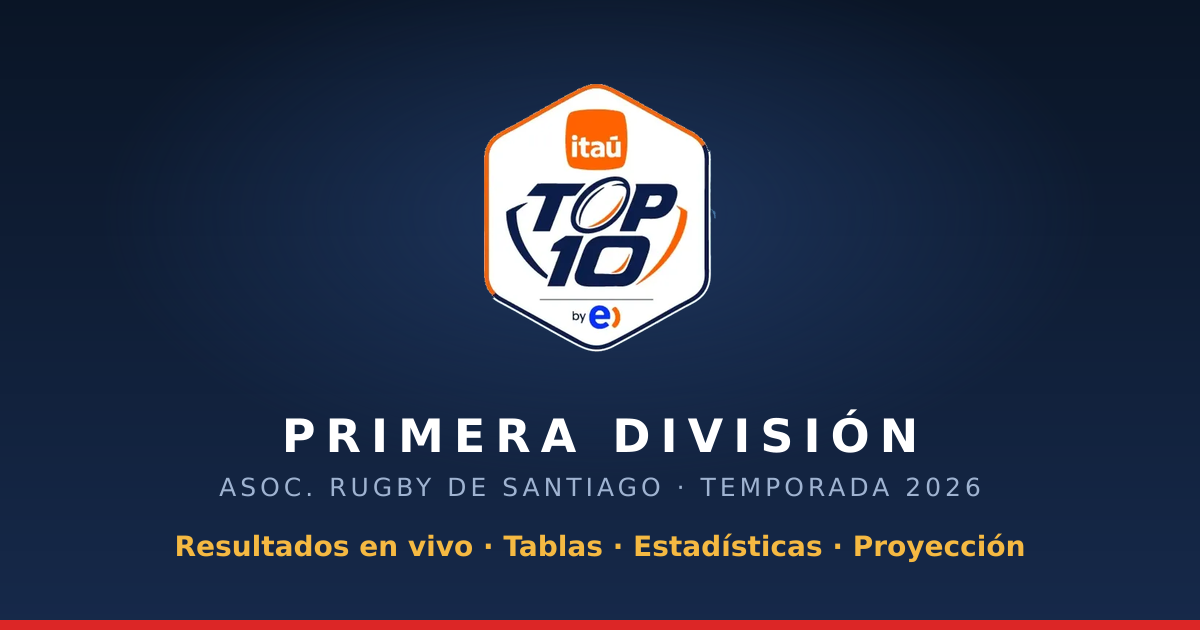
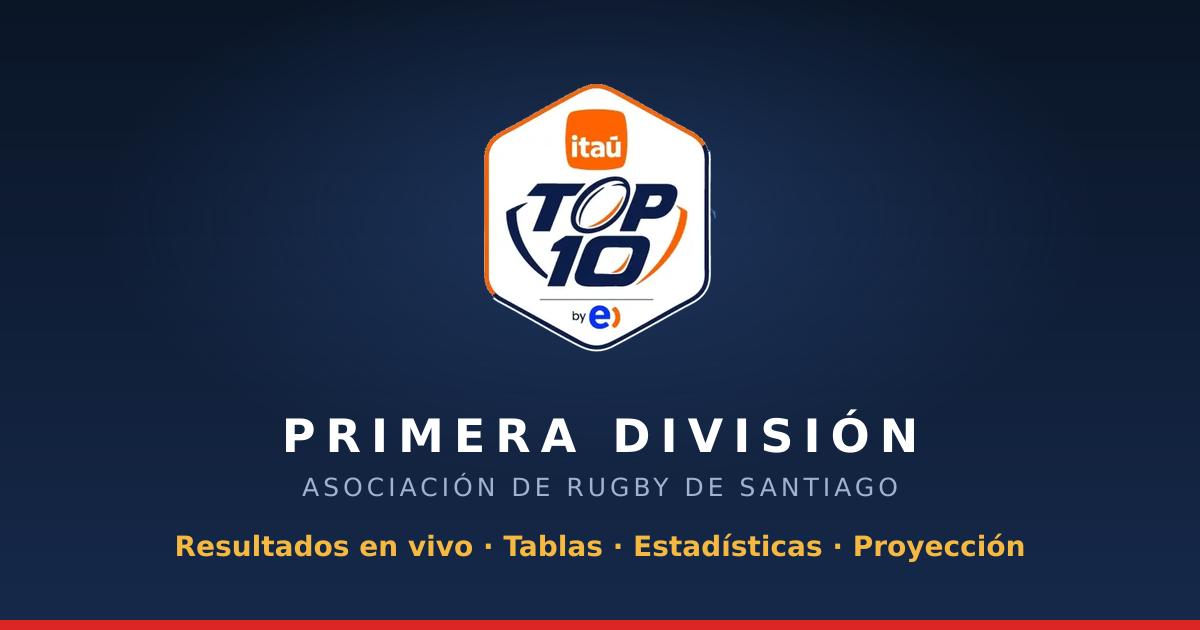
web: OG y meta descriptions evergreen (sin 'Temporada 2026')

Changed region(s): [[0.185, 0.754, 0.8325, 0.7841]]

diff --git a/web/src/app/layout.tsx b/web/src/app/layout.tsx
@@ -23,7 +23,7 @@ export const metadata: Metadata = {
     default: "Top 10 | Rugby Chile",
     template: "%s | Top 10 ARUSA",
   },
-  description: "Resultados, tablas y estadísticas de la Primera Nacional Top 10 ARUSA · Temporada 2026",
+  description: "Resultados, tablas y estadísticas de la Primera Nacional Top 10 ARUSA",
   keywords: ["rugby", "chile", "top 10", "arusa", "primera division"],
   // Base absoluta para que las URLs relativas (OG image) resuelvan al compartir.
   metadataBase: new URL("https://top10chile.vercel.app"),
@@ -33,13 +33,13 @@ export const metadata: Metadata = {
     url: "https://top10chile.vercel.app",
     siteName: "Top 10 · Rugby Chile",
     title: "Top 10 | Rugby Chile",
-    description: "Resultados en vivo, tablas, estadísticas y una proyección Monte Carlo de la Primera Nacional Top 10 ARUSA · Temporada 2026",
+    description: "Resultados en vivo, tablas, estadísticas y una proyección Monte Carlo de la Primera Nacional Top 10 ARUSA",
     images: [{ url: "/og.png", width: 1200, height: 630, alt: "Top 10 · Rugby Chile" }],
   },
   twitter: {
     card: "summary_large_image",
     title: "Top 10 | Rugby Chile",
-    description: "Resultados, tablas, estadísticas y proyección del Top 10 ARUSA · 2026",
+    description: "Resultados, tablas, estadísticas y proyección del Top 10 ARUSA",
     images: ["/og.png"],
   },
   manifest: "/manifest.json",

diff --git a/web/scripts/build-og.js b/web/scripts/build-og.js
@@ -30,7 +30,7 @@ const bg = Buffer.from(`
 
   <text x="${W / 2}" y="496" text-anchor="middle"
         font-family="'DejaVu Sans','Liberation Sans',sans-serif" font-weight="400"
-        font-size="25" letter-spacing="4" fill="#9fb3d1">ASOC. RUGBY DE SANTIAGO · TEMPORADA 2026</text>
+        font-size="25" letter-spacing="4" fill="#9fb3d1">ASOCIACIÓN DE RUGBY DE SANTIAGO</text>
 
   <text x="${W / 2}" y="556" text-anchor="middle"
         font-family="'DejaVu Sans','Liberation Sans',sans-serif" font-weight="600"
